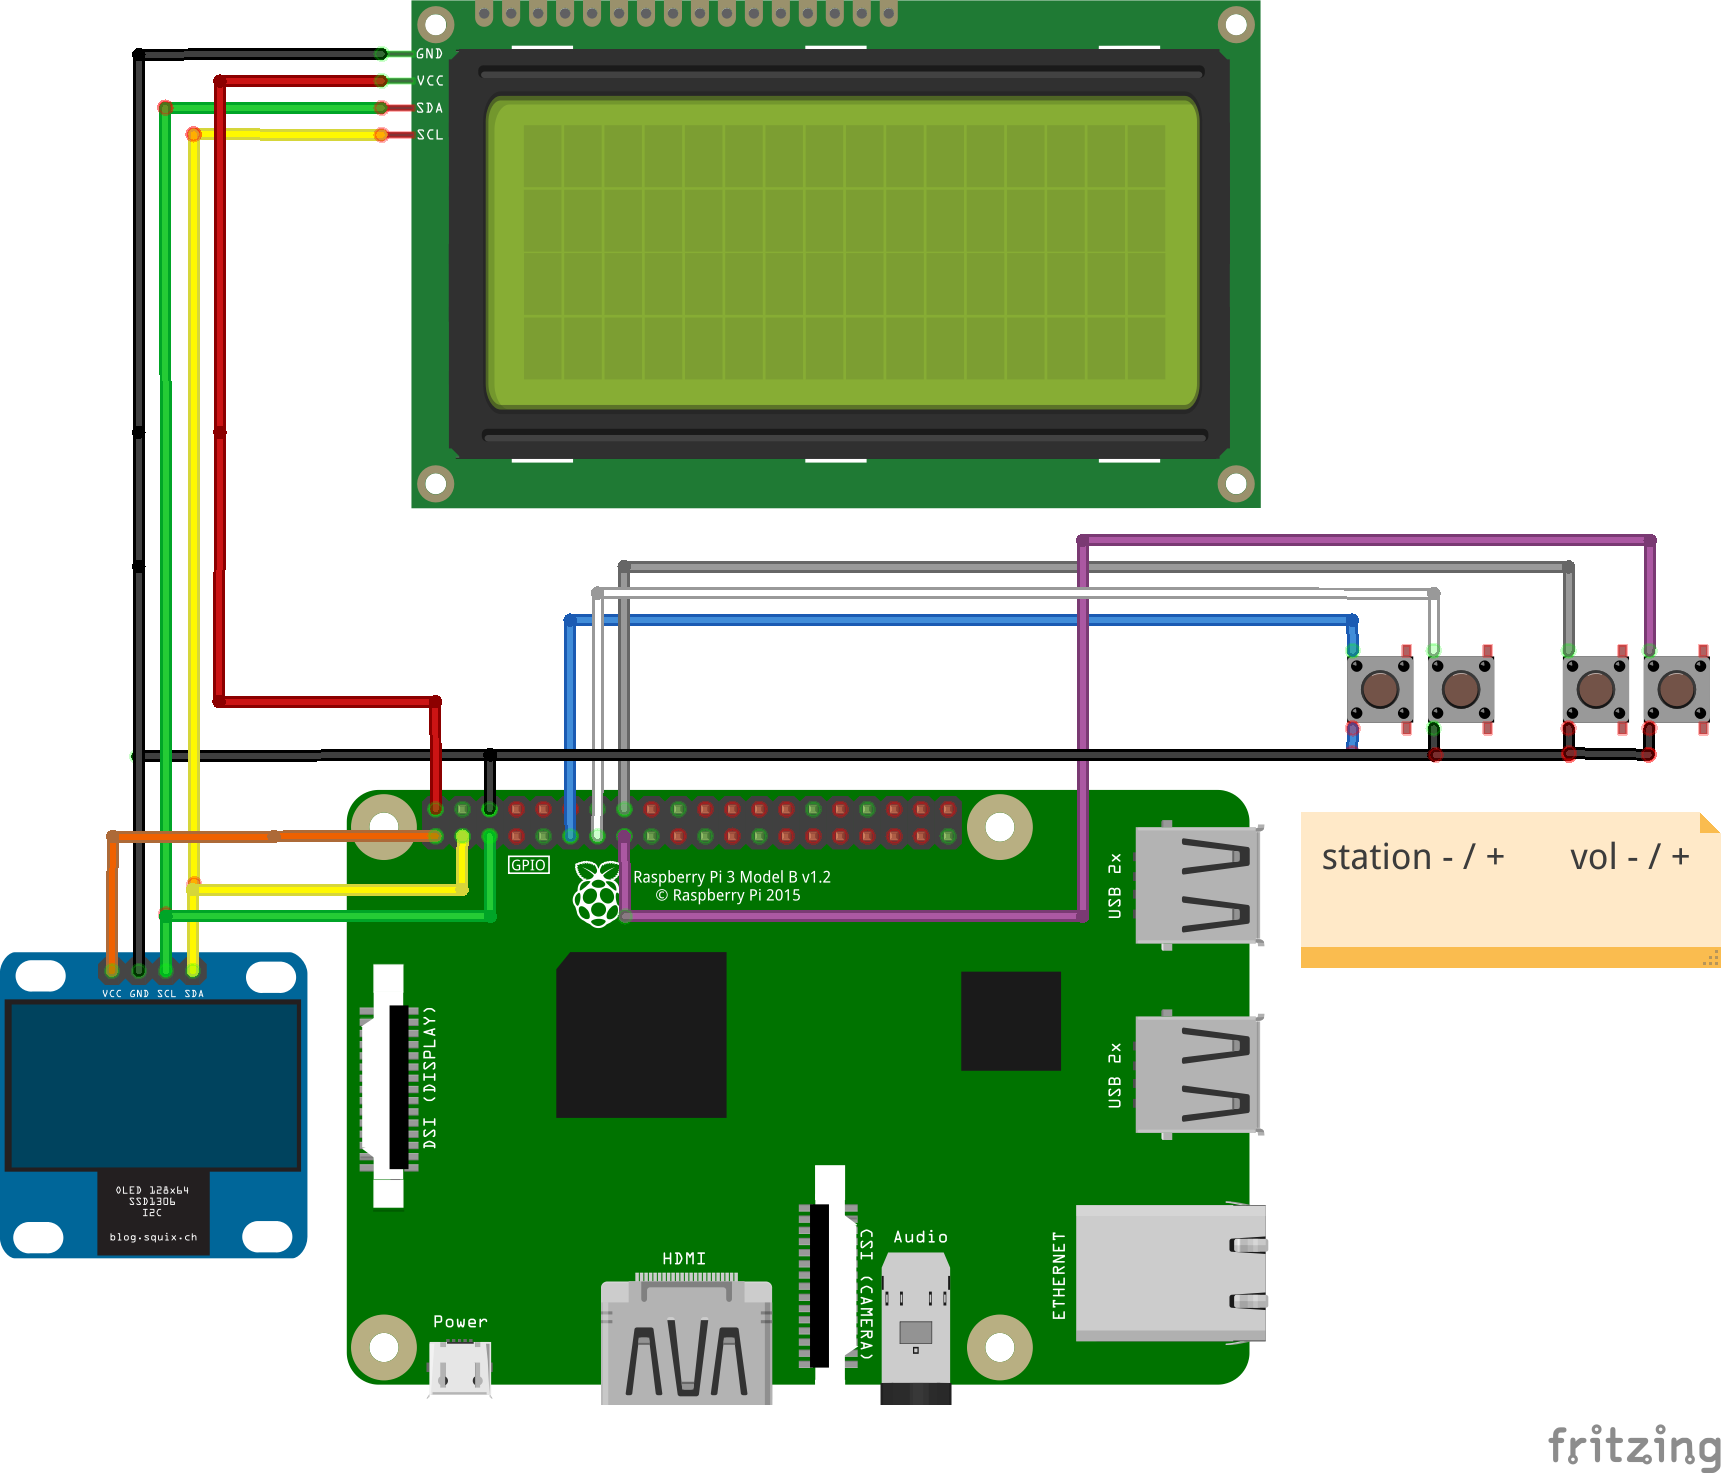
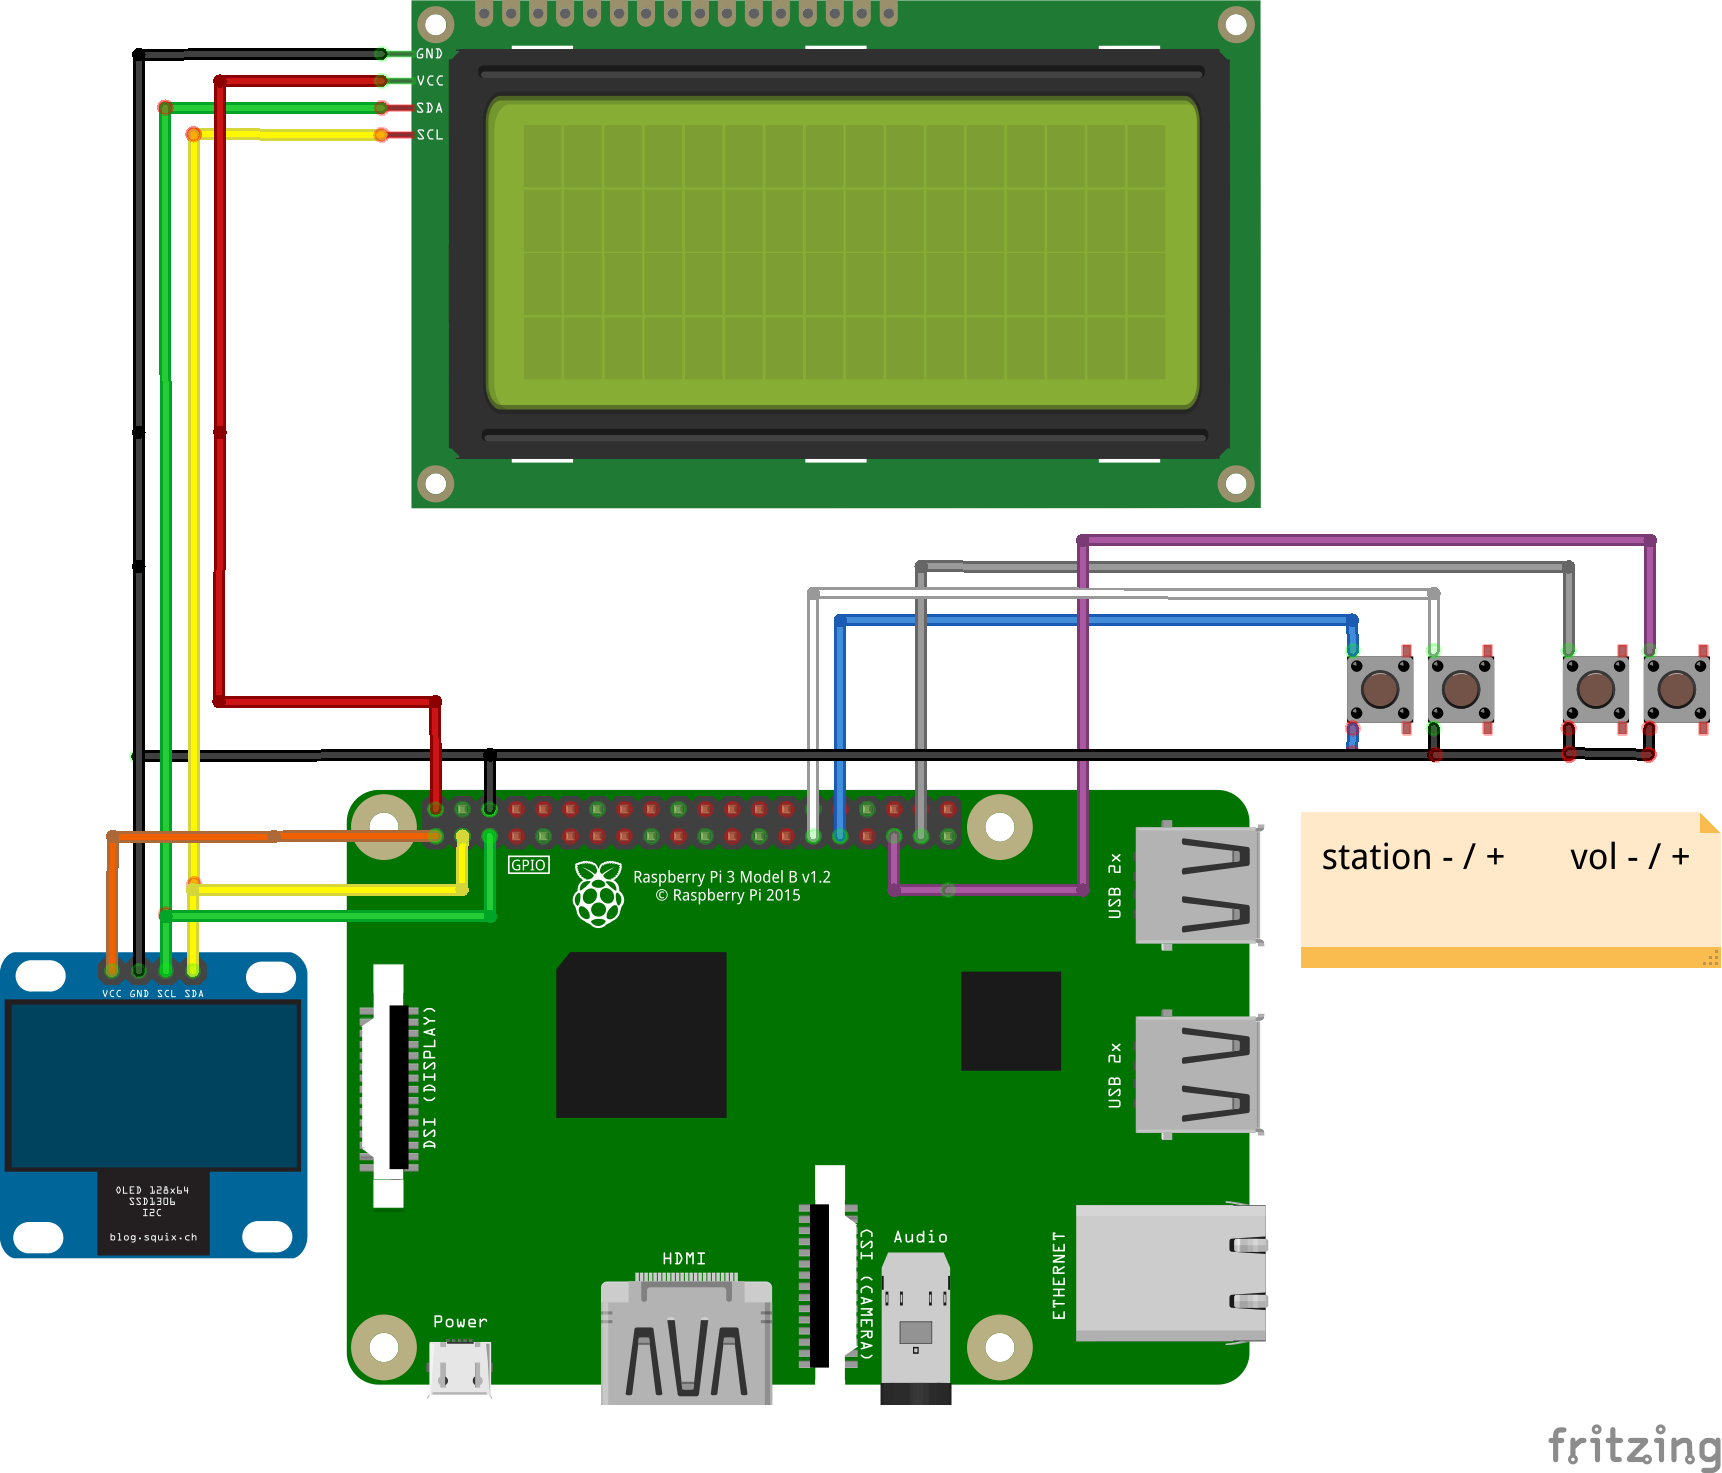
Raspberry Zero fritzing, GPIO pins for buttons changed

Changed region(s): [[0.3078, 0.3747, 0.6463, 0.6246], [0.7695, 0.5621, 0.831, 0.5933], [0.9233, 0.5621, 0.9541, 0.5933]]

diff --git a/piradio.go b/piradio.go
@@ -365,35 +365,35 @@ func main() {
 	}
 
 	// Lookup pins by their names and set them as input pins with an internal pull up resistor:
-	p17 := gpioreg.ByName("GPIO17")
-	if p17 == nil {
-		logger.Error("Failed to find GPIO17")
+	pNextStation := gpioreg.ByName("GPIO5")
+	if pNextStation == nil {
+		logger.Error("Failed to find GPIO5")
 	}
-	if err := p17.In(gpio.PullUp, gpio.NoEdge); err != nil {
+	if err := pNextStation.In(gpio.PullUp, gpio.NoEdge); err != nil {
 		check(err)
 	}
 
-	p22 := gpioreg.ByName("GPIO22")
-	if p22 == nil {
-		logger.Error("Failed to find GPIO22")
+	pPrevStation := gpioreg.ByName("GPIO6")
+	if pPrevStation == nil {
+		logger.Error("Failed to find GPIO6")
 	}
-	if err := p22.In(gpio.PullUp, gpio.NoEdge); err != nil {
+	if err := pPrevStation.In(gpio.PullUp, gpio.NoEdge); err != nil {
 		check(err)
 	}
 
-	p23 := gpioreg.ByName("GPIO23")
-	if p23 == nil {
-		logger.Error("Failed to find GPIO23")
+	pVolUp := gpioreg.ByName("GPIO19")
+	if pVolUp == nil {
+		logger.Error("Failed to find GPIO19")
 	}
-	if err := p23.In(gpio.PullUp, gpio.NoEdge); err != nil {
+	if err := pVolUp.In(gpio.PullUp, gpio.NoEdge); err != nil {
 		check(err)
 	}
 
-	p27 := gpioreg.ByName("GPIO27")
-	if p27 == nil {
-		logger.Error("Failed to find GPIO27")
+	pVolDown := gpioreg.ByName("GPIO26")
+	if pVolDown == nil {
+		logger.Error("Failed to find GPIO26")
 	}
-	if err := p27.In(gpio.PullUp, gpio.NoEdge); err != nil {
+	if err := pVolDown.In(gpio.PullUp, gpio.NoEdge); err != nil {
 		check(err)
 	}
 
@@ -406,7 +406,7 @@ func main() {
 	debounceWrite = debouncer.New(15 * time.Second)
 
 	// the following 4 functions handle the pressed buttons
-	fp17 := func() {
+	fpPrev := func() {
 		stationMutex.Lock()
 		stationIdx-- // previous station
 		if stationIdx < 0 {
@@ -415,24 +415,24 @@ func main() {
 		newStation()
 		stationMutex.Unlock()
 	}
-	fp22 := func() {
-		volumeMutex.Lock()
-		_, err = inPipe.Write([]byte("*")) // increase volume
-		volumeMutex.Unlock()
-		check(err)
-	}
-	fp23 := func() {
-		volumeMutex.Lock()
-		_, err = inPipe.Write([]byte("/")) // decrease volume
-		volumeMutex.Unlock()
-		check(err)
-	}
-	fp27 := func() {
+	fpNext := func() {
 		stationMutex.Lock()
 		stationIdx++ // next station
 		stationIdx = stationIdx % len(stations)
 		newStation()
 		stationMutex.Unlock()
+	}
+	fpUp := func() {
+		volumeMutex.Lock()
+		_, err = inPipe.Write([]byte("*")) // increase volume
+		volumeMutex.Unlock()
+		check(err)
+	}
+	fpDown := func() {
+		volumeMutex.Lock()
+		_, err = inPipe.Write([]byte("/")) // decrease volume
+		volumeMutex.Unlock()
+		check(err)
 	}
 
 	signal.Notify(ctrlChan, os.Interrupt, syscall.SIGTERM, syscall.SIGINT, syscall.SIGKILL)
@@ -444,14 +444,14 @@ func main() {
 	go func() {
 		for {
 			switch {
-			case p27.Read() == false:
-				debounceBtn(fp27) // next station
-			case p17.Read() == false:
-				debounceBtn(fp17) // previous station
-			case p22.Read() == false:
-				debounceBtn(fp22) // increase volume
-			case p23.Read() == false:
-				debounceBtn(fp23) // decrease volume
+			case pNextStation.Read() == false:
+				debounceBtn(fpNext) // next station
+			case pPrevStation.Read() == false:
+				debounceBtn(fpPrev) // previous station
+			case pVolUp.Read() == false:
+				debounceBtn(fpUp) // increase volume
+			case pVolDown.Read() == false:
+				debounceBtn(fpDown) // decrease volume
 			}
 			time.Sleep(70 * time.Millisecond)
 		}
@@ -489,7 +489,7 @@ func main() {
 		logger.Trace("URL %s is NOT available", stations[0].url)
 		time.Sleep(300 * time.Millisecond)
 	}
-	fp27()
+	fpNext()
 
 	go func() {
 		// In order to show the volume level, it's neccessary to 'press' once 'decrease volume'

diff --git a/doc/raspy_zero.md b/doc/raspy_zero.md
@@ -20,5 +20,85 @@ This will take some time. In my case it took 226 seconds. Run `sync` in order to
 all cached data to the sd card.
 
 ### First Boot
-Insert the sd card in the sd card slot on the backside of the zero w. Connect a diasplay and a keyboard
-via the HDMI mini and USB micro connectors and connect the power via the second micro USB connector.
+Insert the sd card in the sd card slot of the zero w. Connect a display and a keyboard
+via the HDMI mini and USB micro connectors and connect the power via the second (right most) 
+micro USB connector.
+
+When the login prompt appears, login as user *pi* with password *raspberry* (please mind the English 
+keyboard layout).
+
+Run `raspi-config` and select the correct locale, timezone, keyboard layout and wifi country from
+menu **4** (Localisation Options). When entering the locale, please select all locales for your country: for German this 
+is `de_DE, de_DE.UTF-8 and de_DE@euro`. In menu **2** (Network Options) enter a name for your raspberry.
+
+In order to **not** store the wifi passwords in a human readable way, please proceed as follows
+for all wifi networks:
+
+    wpa_passphrase SSID-OF-WIFI SECRET-PASSWORD >> /etc/wpa_supplicant/wpa_supplicant.conf
+
+This tool will add the network settings of the wifi at the end of the given file. Please run
+
+     sudo nano /etc/wpa_supplicant/wpa_supplicant.conf
+     
+and check the generated part. Remove the commented lines with the unencrypted passwords.
+
+Reboot, login again and try to ping your router.
+
+### Enabling ssh connections and i2c 
+Run `raspi-config` and enable *ssh* and *i2c* from menu **5** (Interfacing Options).
+
+Now you can access your Zero W from other computer via `ssh pi@10.7.7.39` i.e. If you want to connect
+without entering a password, you have to give your public ssh key to the raspi:
+
+     ssh-copy-id pi@10.7.7.39
+     
+After done that, you can ssh into your raspi without entering a password.
+
+### Install mplayer
+Run `sudo apt update && sudo apt install mplayer`.
+
+#### Enable i²c
+Start program `sudo raspi-config` and select menu `5 Interfacing Options` and there the sub menu
+`P5 i²c` via cursors and press ENTER. Move to `<YES>` via cursor keys and press ENTER again.
+
+Restart now the raspberry via `sudo reboot`.
+Login and test via tool `i2cdetect` the i²c bus:
+
+    sudo i2cdetect -y 1     # or ...-y 0
+    
+This is the output when both displays are connected (LCD is at 27 and OLED is at 3c):
+
+         0  1  2  3  4  5  6  7  8  9  a  b  c  d  e  f
+    00:          -- -- -- -- -- -- -- -- -- -- -- -- -- 
+    10: -- -- -- -- -- -- -- -- -- -- -- -- -- -- -- -- 
+    20: -- -- -- -- -- -- -- 27 -- -- -- -- -- -- -- -- 
+    30: -- -- -- -- -- -- -- -- -- -- -- -- 3c -- -- -- 
+    40: -- -- -- -- -- -- -- -- -- -- -- -- -- -- -- -- 
+    50: -- -- -- -- -- -- -- -- -- -- -- -- -- -- -- -- 
+    60: -- -- -- -- -- -- -- -- -- -- -- -- -- -- -- -- 
+    70: -- -- -- -- -- -- -- --                         
+
+In case the tool is not installed:
+
+    sudo apt update && sudo apt install i2c-tools
+
+### Updating all packages
+Run `sudo apt update && sudo apt upgrade` and wait until all updates are installed.
+
+### audio output
+Since the Raspberry Zero dowsn't have an audio jack, we need to route the internal
+PWM signals to GPIO pins and shape the signal so that they are compatible with standard
+audio equipment. The routing is done with an entry in `/boot/config.txt`. Just put the 
+following line at the end of the file:
+
+    dtoverlay=pwm-2chan,pin=18,func=2,pin2=13,func2=4
+
+You need su rights to change the file. After changing, please reboot.
+
+#### signal shaping
+The shaping is a simple RC lowpass filter together with an output condensator to eliminate
+dc from the signal. Since the pwm output have a quite high voltage, a voltage divider is
+in front of the filter. The calculation for the RC filter was done on [this page](https://electronicbase.net/de/tiefpass-berechnen/#passiver-tiefpass-1-ordnung).
+The Fritzing schematic is located in [this file](https://github.com/aluedtke7/piradio/blob/master/doc/RaspiZero.fzz).
+
+![Fritzing Zero](schematic_zero.png)
